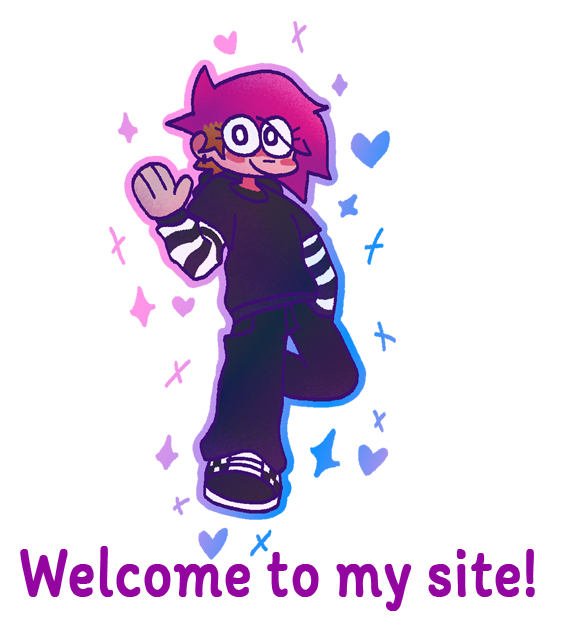
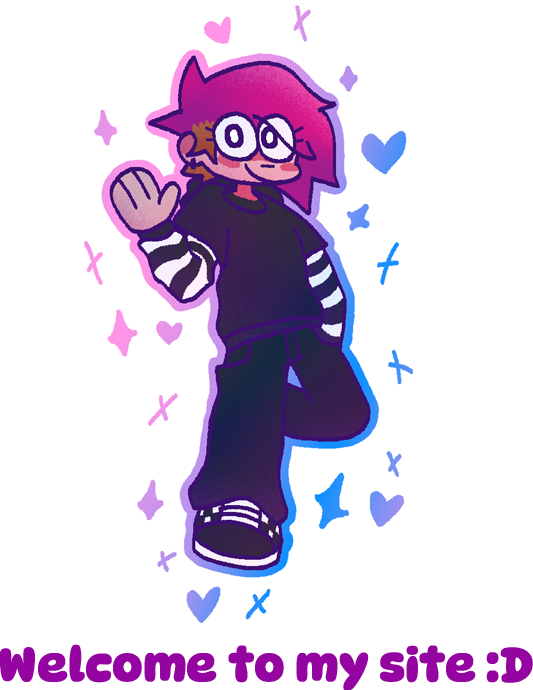
Add files via upload

diff --git a/index.html b/index.html
@@ -1,113 +1,145 @@
 <!doctype html>
-            
+
 <html lang="en">
 
 <head>
     <link rel="preconnect" href="https://fonts.googleapis.com">
-<link rel="preconnect" href="https://fonts.gstatic.com" crossorigin>
-<link href="https://fonts.googleapis.com/css2?family=Sour+Gummy:ital,wght@0,100..900;1,100..900&display=swap" rel="stylesheet">
+    <link rel="preconnect" href="https://fonts.gstatic.com" crossorigin>
+    <link href="https://fonts.googleapis.com/css2?family=Sour+Gummy:ital,wght@0,100..900;1,100..900&display=swap"
+        rel="stylesheet">
 
-<link rel="icon" type="image/png" href="favicon-32x32.png" sizes="32x32" />
-<link rel="icon" type="image/png" href="favicon-16x16.png" sizes="16x16" />
+    <link rel="icon" type="image/png" href="favicon-32x32.png" sizes="32x32" />
+    <link rel="icon" type="image/png" href="favicon-16x16.png" sizes="16x16" />
 
-<meta charset="utf-8">
-<title>Awesome sauce</title>
-<style>body { 
-    font-family: -apple-system,BlinkMacSystemFont,"Segoe UI",Roboto,Oxygen-Sans,Ubuntu,Cantarell,"Helvetica Neue",sans-serif; } 
+    <meta charset="utf-8">
+    <title>Awesome sauce</title>
+    <style>
+        body {
+            font-family: -apple-system, BlinkMacSystemFont, "Segoe UI", Roboto, Oxygen-Sans, Ubuntu, Cantarell, "Helvetica Neue", sans-serif;
+        }
     </style>
-    <style>h1 {
-        font-family: "Sour Gummy", sans-serif;
-        font-optical-sizing: auto;
-        font-weight:600 }
-      
-      </style>
-<style>
-body {background-image:linear-gradient(135deg,rgb(255, 202, 230),rgb(139, 72, 187)); background-size:cover; background-attachment: fixed; color:rgb(76, 1, 130); p{color:rgb(180, 36, 82)};
- .this {color:black}; #that{color:aliceblue}; #thing{color:blueviolet}} </style>
- <style>#navlist
-    {
-    color: white;
-    background: rgb(104, 20, 213);
-    border-bottom: 0.2em solid rgb(104, 20, 213);
-    border-right: 0.2em solid rgb(104, 20, 213);
-    padding: 0 5px;
-    margin-left: 0;
-    width: 20em;
-    font: normal 1.5em Sour Gummy, sans-serif;
-    }
+    <style>
+        h1 {
+            font-family: "Sour Gummy", sans-serif;
+            font-optical-sizing: auto;
+            font-weight: 600;h1 {
+            font-size: 60px;
+        }
+    } h2 {font-size: 60px;}
+    </style>
     
-    #navlist li
-    {
-    list-style: none;
-    margin: 0;
-    font-size: 1em;
-    }
-    
-    #navlist a
-    {
-    display: block;
-    text-decoration: none;
-    margin-bottom: 0.5em;
-    margin-top: 0.5em;
-    color: rgb(255, 255, 255);
-    background: rgb(203, 69, 221);
-    border-width: 1px;
-    border-style: solid;
-    border-color: rgb(104, 20, 213) rgb(43, 2, 41) rgb(42, 2, 72) rgb(104, 20, 213);
-    border-left: 1em solid rgb(158, 0, 84);
-    padding: 0.25em 0.5em 0.4em 0.75em;
-    }
-    
-    #navlist a#current { border-color: rgb(150, 35, 204) rgb(67, 0, 85) rgb(149, 15, 159) rgb(158, 0, 84); }
-    
-    #navlist a
-    {
-    width: 99%;
-    /* only necessary for Internet Explorer */
-    }
+    <style>
+        body {
+            background-image: linear-gradient(135deg, rgb(255, 202, 230), rgb(139, 72, 187));
+            background-size: cover;
+            background-attachment: fixed;
+            color: rgb(76, 1, 130);   
+            width: 80%;
+            margin-left: 10%;
+        }
 
-    
-    #navcontainer>#navlist a
-    {
-    width: auto;
-    /* only necessary if you use the hacks above for the Internet Explorer */
-    }
-    
-    #navlist a:hover, #navlist a#current:hover
-    {
-    background: rgb(187, 34, 184);
-    border-color: rgb(98, 14, 98) rgb(89, 22, 124) rgb(81, 10, 119) rgb(255, 0, 153);
-    padding: 0.4em 0.35em 0.25em 0.9em;
-    }
-    
-    #navlist a:active, #navlist a#current:active
-    {
-    background: rgb(122, 17, 170);
-    border-color: rgb(153, 15, 184) rgb(119, 16, 179) rgb(150, 35, 204) rgb(255, 0, 153);
-    padding: 0.em 0.35em 0.25em 0.9em;
-    }</style>
+            p {
+                color: rgb(180, 36, 82);
+            }
+
+            .this {
+                color: black;
+            }
+
+
+            #that {
+                color: aliceblue;
+            }
+
+
+            #thing {
+                color: blueviolet;
+            }
+
+        #navlist {
+            color: white;
+            background: rgb(104, 20, 213);
+            border-bottom: 0.2em solid rgb(104, 20, 213);
+            border-right: 0.2em solid rgb(104, 20, 213);
+            padding: 8px;
+            margin-left: 5;
+            width: 30em;
+            font: normal 2.5em Sour Gummy, sans-serif;
+        }
+
+        #navlist li {
+            list-style: none;
+            margin: 0;
+            font-size: 1em;
+        }
+
+        #navlist a {
+            display: block;
+            text-decoration: none;
+            margin-bottom: 0.5em;
+            margin-top: 0.5em;
+            color: rgb(255, 255, 255);
+            background: rgb(203, 69, 221);
+            border-width: 1px;
+            border-style: solid;
+            border-color: rgb(104, 20, 213) rgb(43, 2, 41) rgb(42, 2, 72) rgb(104, 20, 213);
+            border-left: 1em solid rgb(158, 0, 84);
+            padding: 0.25em 0.5em 0.4em 0.75em;
+        }
+
+        #navlist a#current {
+            border-color: rgb(150, 35, 204) rgb(67, 0, 85) rgb(149, 15, 159) rgb(158, 0, 84);
+        }
+
+        #navlist a {
+            width: 99%;
+            /* only necessary for Internet Explorer */
+        }
+
+
+        #navcontainer>#navlist a {
+            width: auto;
+            /* only necessary if you use the hacks above for the Internet Explorer */
+        }
+
+        #navlist a:hover,
+        #navlist a#current:hover {
+            background: rgb(187, 34, 184);
+            border-color: rgb(98, 14, 98) rgb(89, 22, 124) rgb(81, 10, 119) rgb(255, 0, 153);
+            padding: 0.4em 0.35em 0.25em 0.9em;
+            text-decoration: underline wavy;
+        }
+
+        #navlist a:active,
+        #navlist a#current:active {
+            background: rgb(122, 17, 170);
+            border-color: rgb(153, 15, 184) rgb(119, 16, 179) rgb(150, 35, 204) rgb(255, 0, 153);
+            padding: 0.em 0.35em 0.25em 0.9em;
+        }
+    </style>
 </head>
-            
+
 <body>
     <h1>The coolest website ever (true and verified)</h1>
     <hr>
 
-<p>Yippie :D</p>
+    <p>Yippie :D</p>
 
 
-<img src="self portrait.png" alt="a drawing of myself in a cartoon art style"
-<p><h2>collect my pages</h2></p>
-<div id="navcontainer">
-    <ul id="navlist">
-    <li id="active"><a href="index.html" id="current">Home (you're already here)</a></li>
-    <li><a href="text.html">text page</a></li>
-    <li><a href="boxes.html">boxes site</a></li>
-    <li><a href="links.html">links demo</a></li>
-    <li><a href="images.html">images demo</a></li>
-    <li><a href="transition.html">transitions demo</a></li>
-    <li><a href="https://sites.google.com/mail.lcc.edu/drawmanycartoon">google sites portfolio</a></li>
-    <li><a >this one isnt a link lol :)</a></li>
-    </ul>
+    <img src="self portrait.png" alt="a drawing of myself in a cartoon art style" <p>
+    <h2>collect my pages</h2>
+    </p>
+    <div id="navcontainer">
+        <ul id="navlist">
+            <li id="active"><a href="index.html" id="current">Home (you're already here)</a></li>
+            <li><a href="text.html">text page</a></li>
+            <li><a href="boxes.html">boxes site</a></li>
+            <li><a href="links.html">links demo</a></li>
+            <li><a href="images.html">images demo</a></li>
+            <li><a href="transition.html">transitions demo</a></li>
+            <li><a href="https://sites.google.com/mail.lcc.edu/drawmanycartoon">google sites portfolio</a></li>
+            <li><a>this one isnt a link lol :)</a></li>
+        </ul>
     </div>
 </body>
 
